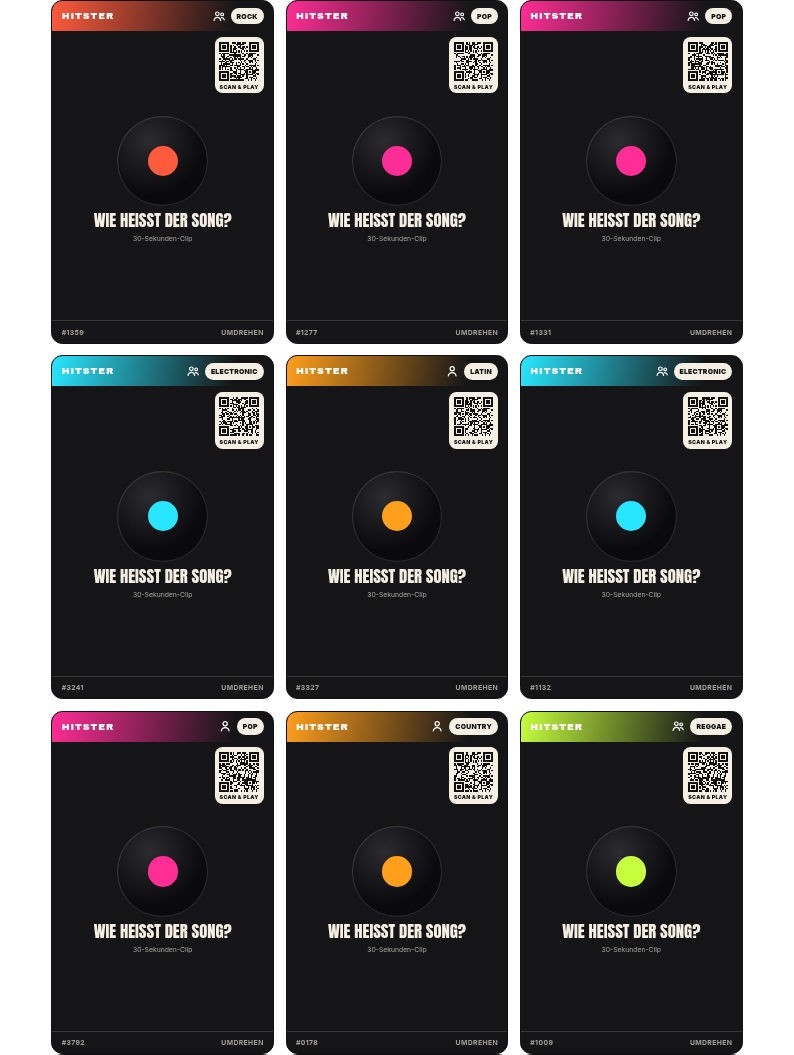
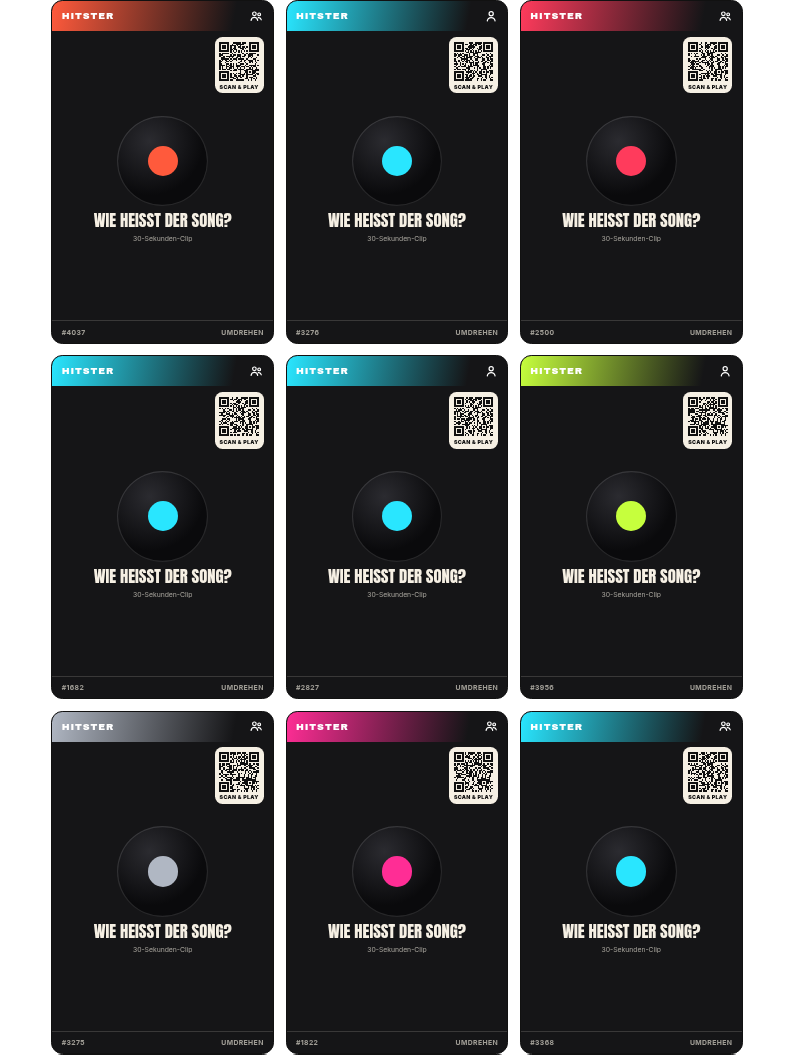
feat: symbol-only card top, no genre text

diff --git a/docs/app.js b/docs/app.js
@@ -73,8 +73,6 @@ const el = {
   flipBtn: $('#flipBtn'),
   nextBtn: $('#nextBtn'),
   cardPlay: $('#cardPlay'),
-  frontGenre: $('#frontGenre'),
-  backGenre: $('#backGenre'),
   frontSub: $('#frontSub'),
   frontNumber: $('#frontNumber'),
   backNumber: $('#backNumber'),
@@ -708,10 +706,9 @@ function printGroupIcon(song) {
 
 function printCardHtml(song, side) {
   const color = genreColor(song.genre);
-  const genre = escapeHtml(genreLabel(song.genre).toUpperCase());
   const id = song.id.slice(1);
   const qrSrc = STATIC ? `qr/${song.id}.svg` : `/api/qr/${song.id}?base=${encodeURIComponent(location.origin)}`;
-  const band = `<div class="pc-band"><span class="pc-kicker">${side === 'front' ? 'HITSTER' : 'AUFGELÖST'}</span><span class="pc-band-right">${printGroupIcon(song)}<span class="pc-genre">${genre}</span></span></div>`;
+  const band = `<div class="pc-band"><span class="pc-kicker">${side === 'front' ? 'HITSTER' : 'AUFGELÖST'}</span><span class="pc-band-right">${printGroupIcon(song)}</span></div>`;
   if (side === 'front') {
     return `<div class="print-card" style="--c:${color}">
       ${band}
@@ -787,14 +784,12 @@ function loadCard(song) {
   resetTimer();
 
   el.card.style.setProperty('--c', genreColor(song.genre));
-  el.frontGenre.textContent = genreLabel(song.genre).toUpperCase();
   el.frontNumber.textContent = `#${song.id.slice(1)}`;
   el.frontSub.textContent = state.mode === 'extension'
     ? `Jahr ${song.year} – tippe für den Clip.`
     : 'Tippe auf die Karte, um den Clip zu starten.';
   el.frontYearBadge.hidden = state.mode !== 'extension';
   el.frontYearBadge.textContent = String(song.year);
-  el.backGenre.textContent = genreLabel(song.genre).toUpperCase();
   el.backNumber.textContent = `#${song.id.slice(1)}`;
   el.backYear.textContent = String(song.year);
   el.backDecade.textContent = decadeLabel(song.year);

diff --git a/public/app.js b/public/app.js
@@ -73,8 +73,6 @@ const el = {
   flipBtn: $('#flipBtn'),
   nextBtn: $('#nextBtn'),
   cardPlay: $('#cardPlay'),
-  frontGenre: $('#frontGenre'),
-  backGenre: $('#backGenre'),
   frontSub: $('#frontSub'),
   frontNumber: $('#frontNumber'),
   backNumber: $('#backNumber'),
@@ -708,10 +706,9 @@ function printGroupIcon(song) {
 
 function printCardHtml(song, side) {
   const color = genreColor(song.genre);
-  const genre = escapeHtml(genreLabel(song.genre).toUpperCase());
   const id = song.id.slice(1);
   const qrSrc = STATIC ? `qr/${song.id}.svg` : `/api/qr/${song.id}?base=${encodeURIComponent(location.origin)}`;
-  const band = `<div class="pc-band"><span class="pc-kicker">${side === 'front' ? 'HITSTER' : 'AUFGELÖST'}</span><span class="pc-band-right">${printGroupIcon(song)}<span class="pc-genre">${genre}</span></span></div>`;
+  const band = `<div class="pc-band"><span class="pc-kicker">${side === 'front' ? 'HITSTER' : 'AUFGELÖST'}</span><span class="pc-band-right">${printGroupIcon(song)}</span></div>`;
   if (side === 'front') {
     return `<div class="print-card" style="--c:${color}">
       ${band}
@@ -787,14 +784,12 @@ function loadCard(song) {
   resetTimer();
 
   el.card.style.setProperty('--c', genreColor(song.genre));
-  el.frontGenre.textContent = genreLabel(song.genre).toUpperCase();
   el.frontNumber.textContent = `#${song.id.slice(1)}`;
   el.frontSub.textContent = state.mode === 'extension'
     ? `Jahr ${song.year} – tippe für den Clip.`
     : 'Tippe auf die Karte, um den Clip zu starten.';
   el.frontYearBadge.hidden = state.mode !== 'extension';
   el.frontYearBadge.textContent = String(song.year);
-  el.backGenre.textContent = genreLabel(song.genre).toUpperCase();
   el.backNumber.textContent = `#${song.id.slice(1)}`;
   el.backYear.textContent = String(song.year);
   el.backDecade.textContent = decadeLabel(song.year);

diff --git a/tests/e2e.test.js b/tests/e2e.test.js
@@ -66,8 +66,8 @@ await step('cards are clean: no Bingo scorecard or Anfänger/Experten clutter', 
   assert.equal(await page.locator('text=Experten').count(), 0);
 });
 
-await step('front card shows genre, group/solo symbol, number and play prompt', async () => {
-  assert.ok((await page.locator('#frontGenre').innerText()).length > 1);
+await step('front card shows group/solo symbol, number and play prompt', async () => {
+  assert.ok((await page.evaluate(() => window.HITSTER.state.current.genre)).length > 1);
   assert.match(await page.locator('#frontNumber').innerText(), /^#\d{4}$/);
   assert.match(await page.locator('.card-question').innerText(), /Song/i);
   assert.ok(['#i-users', '#i-user'].includes(await page.locator('#frontGroupIcon use').getAttribute('href')));
@@ -189,7 +189,7 @@ await step('next card resets the flip and draws a different card', async () => {
 await step('genre filter changes the card and URL', async () => {
   await page.locator('.chip[data-genre="rock"]').click();
   await page.waitForTimeout(700);
-  assert.equal((await page.locator('#frontGenre').innerText()).toLowerCase(), 'rock');
+  assert.equal(await page.evaluate(() => window.HITSTER.state.current.genre), 'rock');
   assert.match(page.url(), /genre=rock/);
   assert.match(await page.locator('#filterSummary').innerText(), /Rock/);
 });
@@ -394,7 +394,7 @@ await step('mobile tap plays audio and flips', async () => {
 await step('mobile filter chips work', async () => {
   await mp.locator('.chip[data-genre="pop"]').tap();
   await mp.waitForTimeout(700);
-  assert.equal((await mp.locator('#frontGenre').innerText()).toLowerCase(), 'pop');
+  assert.equal(await mp.evaluate(() => window.HITSTER.state.current.genre), 'pop');
 });
 
 await step('mobile has no runtime errors', async () => {

diff --git a/docs/styles.css b/docs/styles.css
@@ -227,12 +227,6 @@ img { max-width: 100%; }
 }
 .band-right { display: flex; align-items: center; gap: 7px; }
 .group-icon { width: 20px; height: 20px; color: #fff; opacity: 0.92; flex: 0 0 auto; }
-.genre-badge {
-  display: inline-flex; align-items: center; padding: 4px 8px;
-  border-radius: 999px; background: var(--paper); color: var(--ink);
-  font-size: 7px; font-weight: 900; letter-spacing: 0.08em; text-transform: uppercase;
-  white-space: nowrap;
-}
 
 .card-center {
   flex: 1 1 auto; display: flex; flex-direction: column;
@@ -503,7 +497,6 @@ kbd {
   .pc-kicker { font-family: var(--font-heavy); font-size: 2.5mm; letter-spacing: 0.1em; }
   .pc-band-right { display: flex; align-items: center; gap: 1.2mm; }
   .pc-group { width: 3.8mm; height: 3.8mm; color: #fff; }
-  .pc-genre { background: #f6f0e4; color: #111; border-radius: 99px; padding: 1mm 1.6mm; font-size: 1.8mm; font-weight: 900; letter-spacing: 0.04em; }
   .pc-qr {
     position: absolute; top: 9.5mm; right: 2.5mm; width: 13mm;
     padding: 1mm; border-radius: 2mm; background: #f6f0e4; color: #111;

diff --git a/public/styles.css b/public/styles.css
@@ -227,12 +227,6 @@ img { max-width: 100%; }
 }
 .band-right { display: flex; align-items: center; gap: 7px; }
 .group-icon { width: 20px; height: 20px; color: #fff; opacity: 0.92; flex: 0 0 auto; }
-.genre-badge {
-  display: inline-flex; align-items: center; padding: 4px 8px;
-  border-radius: 999px; background: var(--paper); color: var(--ink);
-  font-size: 7px; font-weight: 900; letter-spacing: 0.08em; text-transform: uppercase;
-  white-space: nowrap;
-}
 
 .card-center {
   flex: 1 1 auto; display: flex; flex-direction: column;
@@ -503,7 +497,6 @@ kbd {
   .pc-kicker { font-family: var(--font-heavy); font-size: 2.5mm; letter-spacing: 0.1em; }
   .pc-band-right { display: flex; align-items: center; gap: 1.2mm; }
   .pc-group { width: 3.8mm; height: 3.8mm; color: #fff; }
-  .pc-genre { background: #f6f0e4; color: #111; border-radius: 99px; padding: 1mm 1.6mm; font-size: 1.8mm; font-weight: 900; letter-spacing: 0.04em; }
   .pc-qr {
     position: absolute; top: 9.5mm; right: 2.5mm; width: 13mm;
     padding: 1mm; border-radius: 2mm; background: #f6f0e4; color: #111;

diff --git a/docs/index.html b/docs/index.html
@@ -84,7 +84,6 @@
                 <span class="card-kicker">HITSTER</span>
                 <span class="band-right">
                   <svg class="group-icon" id="frontGroupIcon" role="img" aria-label="Gruppe"><use href="#i-users"></use></svg>
-                  <span class="genre-badge" id="frontGenre">POP</span>
                 </span>
               </header>
               <div class="card-center">
@@ -115,7 +114,6 @@
                 <span class="card-kicker">AUFGELÖST</span>
                 <span class="band-right">
                   <svg class="group-icon" id="backGroupIcon" role="img" aria-label="Gruppe"><use href="#i-users"></use></svg>
-                  <span class="genre-badge" id="backGenre">POP</span>
                 </span>
               </header>
               <div class="back-hero">

diff --git a/public/index.html b/public/index.html
@@ -84,7 +84,6 @@
                 <span class="card-kicker">HITSTER</span>
                 <span class="band-right">
                   <svg class="group-icon" id="frontGroupIcon" role="img" aria-label="Gruppe"><use href="#i-users"></use></svg>
-                  <span class="genre-badge" id="frontGenre">POP</span>
                 </span>
               </header>
               <div class="card-center">
@@ -115,7 +114,6 @@
                 <span class="card-kicker">AUFGELÖST</span>
                 <span class="band-right">
                   <svg class="group-icon" id="backGroupIcon" role="img" aria-label="Gruppe"><use href="#i-users"></use></svg>
-                  <span class="genre-badge" id="backGenre">POP</span>
                 </span>
               </header>
               <div class="back-hero">
